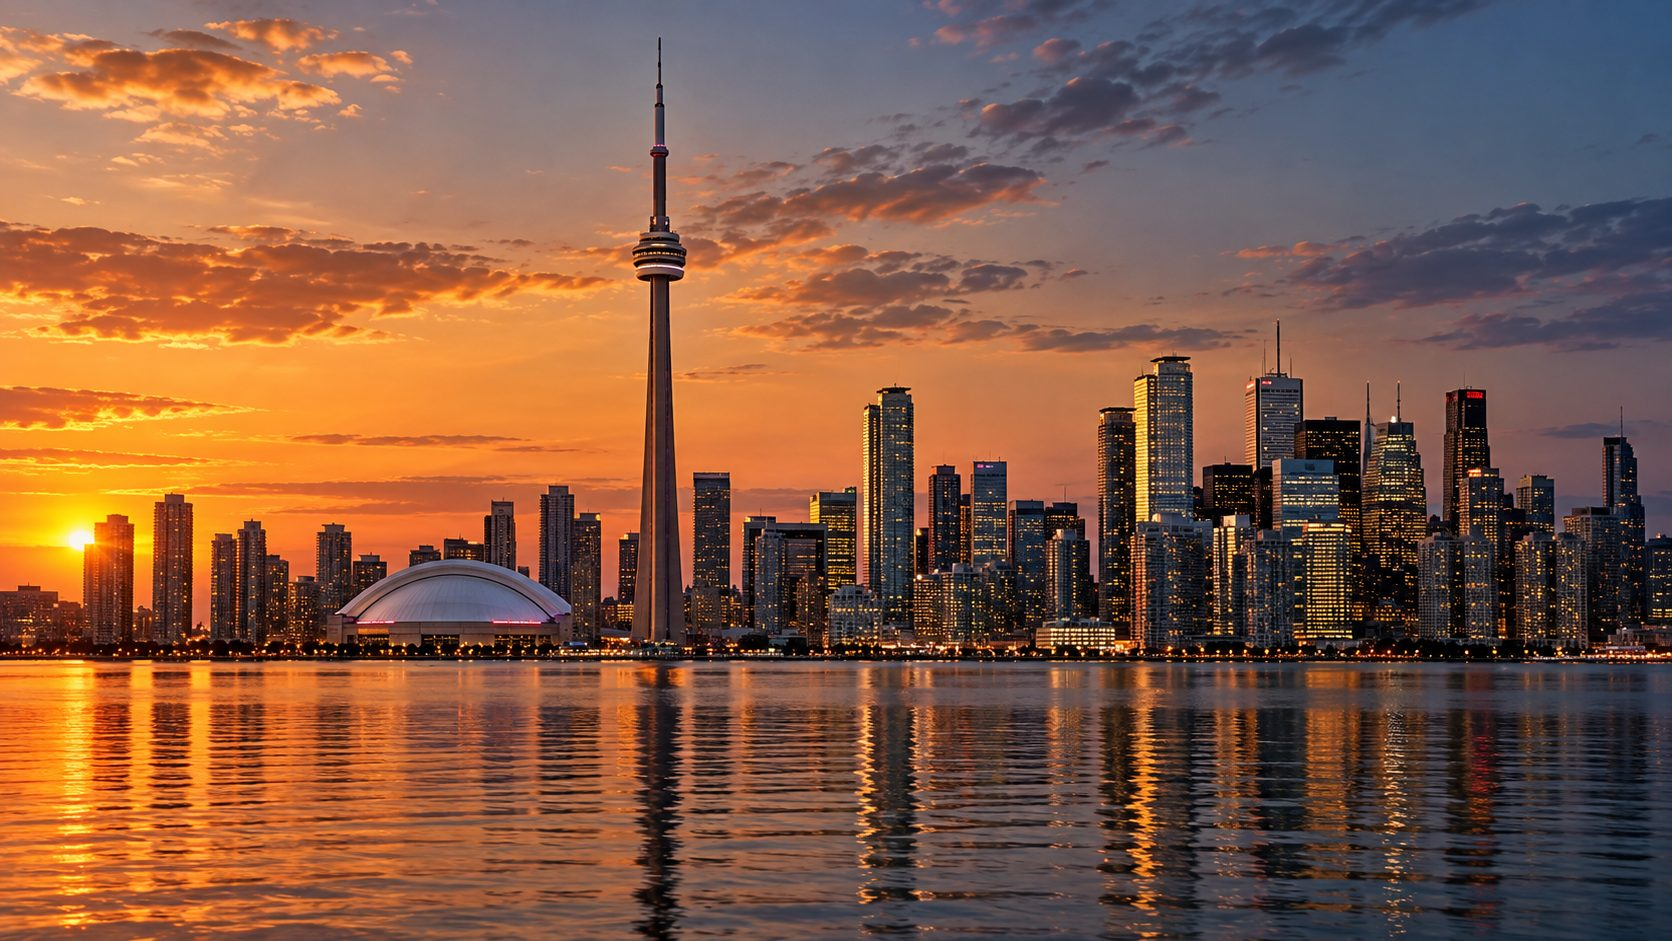
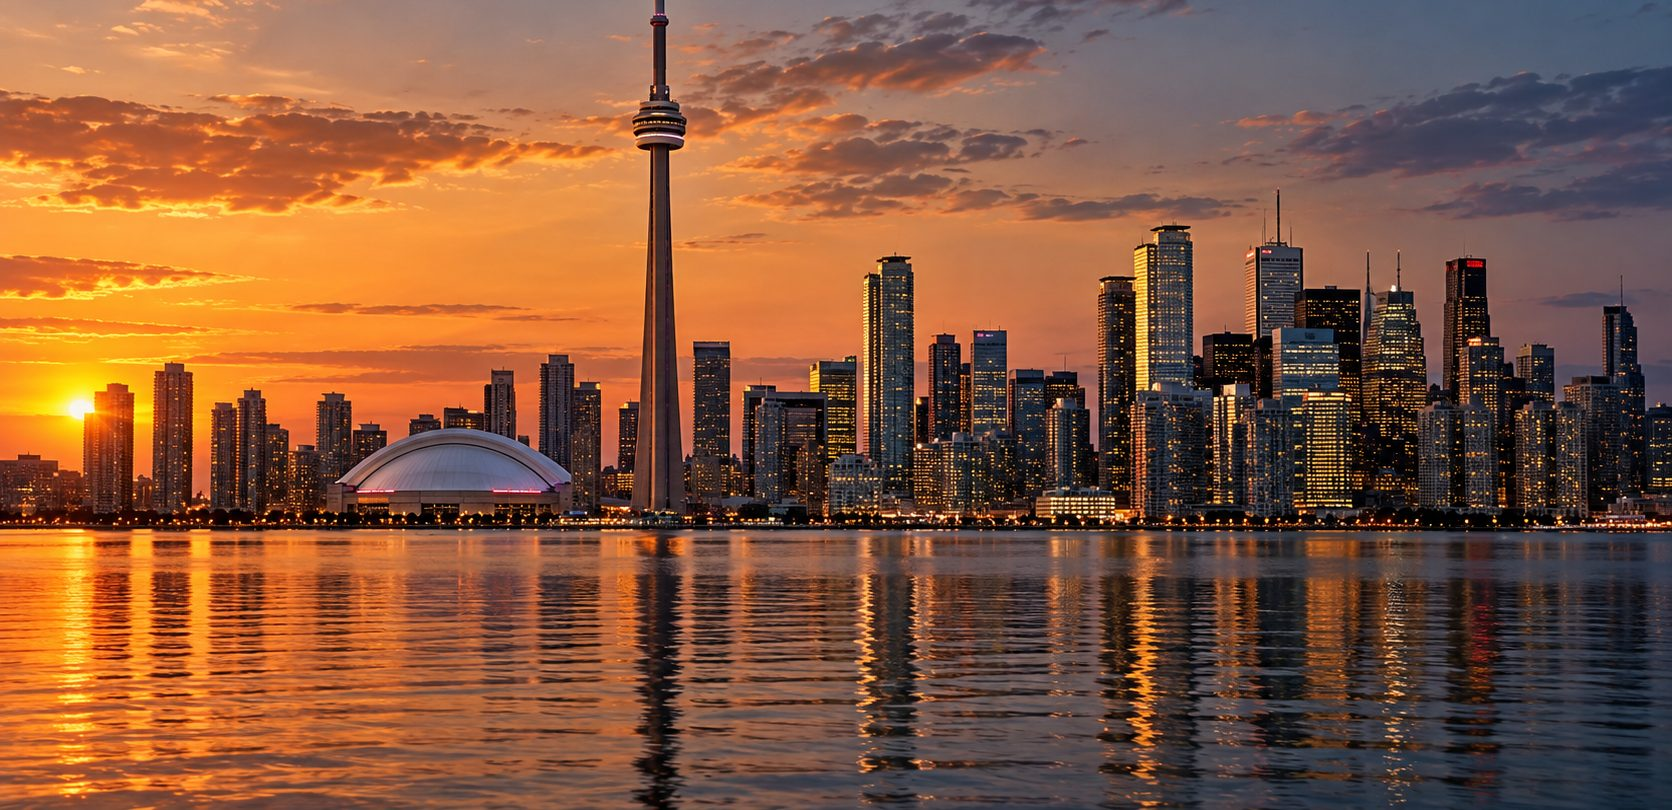
Split Estate Sales (flagship) and Estate Management into two services
- Estate Sales: flagship, featured card on home + services, listed first,
  sale-focused page (consultation, appraisal, staging, the sale, auction)
- Estate Management: new page (sorting, downsizing, donation, coordination)
- Update hero panel (5 services), previews, service grid, others links,
  contact dropdown; recrop Coverage skyline so it frames cleanly

Claude-Session: https://claude.ai/code/session_01TmpKbQ9dQJgBS3atNsjquV

diff --git a/index.html b/index.html
@@ -265,7 +265,7 @@
   .offer p{margin:0;color:var(--steel-2);font-weight:300;font-size:1.02rem;max-width:64ch;}
   .others{background:var(--charcoal);border-top:1px solid var(--line-dark);padding:72px 0;}
   .others .kicker{display:block;text-align:center;margin-bottom:34px;}
-  .others-grid{display:grid;grid-template-columns:repeat(3,1fr);gap:1px;background:var(--line-dark);border:1px solid var(--line-dark);}
+  .others-grid{display:grid;grid-template-columns:repeat(4,1fr);gap:1px;background:var(--line-dark);border:1px solid var(--line-dark);}
   .others-grid a{background:var(--charcoal);padding:32px 28px;text-decoration:none;transition:background .25s;display:block;}
   .others-grid a:hover{background:var(--ink);}
   .others-grid .n{font-family:"Cormorant Garamond",serif;color:var(--steel-2);font-size:.95rem;}
@@ -273,7 +273,7 @@
   .page-cta{background:var(--ink);text-align:center;padding:90px 0;}
   .page-cta h2{font-size:clamp(2rem,4.5vw,3rem);color:#fff;font-weight:400;margin:14px 0 26px;}
   .page-cta .btns{display:flex;gap:16px;justify-content:center;flex-wrap:wrap;}
-  @media(max-width:880px){.offer{grid-template-columns:1fr;gap:10px;}.others-grid{grid-template-columns:1fr;}}
+  @media(max-width:880px){.offer{grid-template-columns:1fr;gap:10px;}.others-grid{grid-template-columns:1fr 1fr;}}
 
   /* ---------- Motion & luxury polish ---------- */
   @keyframes qlf-drift{0%{transform:translate3d(0,0,0) scale(1);}100%{transform:translate3d(-2.5%,1.5%,0) scale(1.07);}}
@@ -334,7 +334,7 @@
   #why .sec-banner{background-image:url("img/approach.jpg");}
   #about .sec-banner{background-image:url("img/about-band.jpg");}
   #contact .sec-banner{background-image:url("img/contact.jpg");}
-  #areas .sec-banner{background-image:url("img/coverage.jpg");background-position:center top;height:clamp(300px,54vh,580px);}
+  #areas .sec-banner{background-image:url("img/coverage.jpg");background-position:center top;height:clamp(260px,44vh,500px);}
 
   /* Full-width parallax texture band (landing) */
   .band{position:relative;padding:0;min-height:clamp(240px,44vh,440px);display:grid;place-items:center;text-align:center;background:#0d0e11 center/cover no-repeat;background-attachment:fixed;border-top:1px solid var(--line-dark);border-bottom:1px solid var(--line-dark);}
@@ -342,6 +342,23 @@
   .band .wrap{position:relative;z-index:1;}
   .band-line{font-family:"Cormorant Garamond",serif;font-style:italic;font-weight:400;font-size:clamp(1.9rem,4vw,3.1rem);color:#fff;margin:0;}
   @media(max-width:880px){.band{background-attachment:scroll;}}
+
+  /* Estate Management banner (detail page) */
+  #estate-management .page-hero{background:linear-gradient(90deg,rgba(13,14,17,.94) 0%,rgba(13,14,17,.68) 55%,rgba(13,14,17,.52) 100%),url("img/band-marble.jpg") center/cover no-repeat;}
+  #estate-management .page-hero::before{display:none;}
+
+  /* Flagship feature card (Estate Sales) */
+  .feature{display:grid;grid-template-columns:1.15fr 1fr;border:1px solid var(--line-dark);text-decoration:none;color:inherit;background:var(--charcoal);overflow:hidden;margin-bottom:34px;transition:background .3s ease;}
+  .feature:hover{background:var(--charcoal-2);}
+  .feature-txt{padding:48px 46px;display:flex;flex-direction:column;justify-content:center;}
+  .feature-tag{align-self:flex-start;font-size:.62rem;letter-spacing:.28em;text-transform:uppercase;color:var(--platinum);border:1px solid var(--steel-2);padding:6px 14px;margin-bottom:20px;}
+  .feature-txt h3{font-family:"Cormorant Garamond",serif;font-size:2.6rem;font-weight:500;color:#fff;margin:0 0 12px;}
+  .feature-txt p{color:var(--steel-2);font-weight:300;font-size:1.02rem;margin:0 0 24px;max-width:46ch;}
+  .feature-txt .more{font-size:.68rem;letter-spacing:.24em;text-transform:uppercase;color:var(--mist);}
+  .feature-txt .more .arw{display:inline-block;margin-left:8px;transition:transform .25s;}
+  .feature:hover .more .arw{transform:translateX(5px);}
+  .feature-img{background:#0d0e11 center/cover no-repeat;min-height:320px;}
+  @media(max-width:880px){.feature{grid-template-columns:1fr;}.feature-img{min-height:200px;order:-1;}.feature-txt{padding:30px 24px;}.feature-txt h3{font-size:2rem;}}
 
   /* Tighter vertical rhythm on mobile (less scrolling) */
   @media(max-width:880px){
@@ -407,8 +424,9 @@
   <div class="others"><div class="wrap">
     <span class="kicker">Also from the studio</span>
     <div class="others-grid">
+        <a href="#estates"><span class="n">Flagship</span><h4>Estate Sales</h4></a>
         <a href="#organization"><span class="n">02 — Order</span><h4>Home Organization</h4></a>
-        <a href="#estates"><span class="n">03 — Transition</span><h4>Estate Sales</h4></a>
+        <a href="#estate-management"><span class="n">03 — Estate</span><h4>Estate Management</h4></a>
         <a href="#bookkeeping"><span class="n">04 — Ledger</span><h4>Bookkeeping</h4></a>
     </div>
   </div></div>
@@ -438,8 +456,9 @@
   <div class="others"><div class="wrap">
     <span class="kicker">Also from the studio</span>
     <div class="others-grid">
+        <a href="#estates"><span class="n">Flagship</span><h4>Estate Sales</h4></a>
         <a href="#maintenance"><span class="n">01 — Maintenance</span><h4>Home Maintenance Services</h4></a>
-        <a href="#estates"><span class="n">03 — Transition</span><h4>Estate Sales</h4></a>
+        <a href="#estate-management"><span class="n">03 — Estate</span><h4>Estate Management</h4></a>
         <a href="#bookkeeping"><span class="n">04 — Ledger</span><h4>Bookkeeping</h4></a>
     </div>
   </div></div>
@@ -456,23 +475,53 @@
 <section class="route" id="estates">
   <div class="page-hero"><div class="inner">
     <a class="backlink" href="#services"><span class="arw">←</span> All Services</a>
-    <span class="kicker">03 — Transition</span>
-    <h1>Estate Sales &amp; Management</h1>
-    <p class="lede">Composed, confidential management of an entire estate — from the first careful sort to the final sale, donation, and clean-out. Whether you're settling a loved one's home or downsizing your own, every detail is handled with discretion, transparency, and the steadiness of a single point of contact — turning a daunting process into a managed one.</p>
+    <span class="kicker">Flagship Service</span>
+    <h1>Estate Sales</h1>
+    <p class="lede">The full, discreet management of an estate sale — from the first valuation to the final dollar. When a lifetime's belongings must become value, Que La Femme runs it end to end: appraised properly, presented beautifully, sold for what it's truly worth, and accounted for to the cent.</p>
   </div></div>
   <div class="detail"><div class="wrap">
       <div class="offer"><div class="idx">01</div><div><h3>Private Consultation &amp; Plan</h3><p>A discreet walkthrough of the home, an honest sense of what the estate holds, and a clear written plan and timeline — with no obligation to proceed.</p></div></div>
-      <div class="offer"><div class="idx">02</div><div><h3>Sorting, Cataloguing &amp; Keepsakes</h3><p>A respectful sort of a lifetime's belongings. Items promised to family or held dear are set aside first; everything else is catalogued before a single thing is sold.</p></div></div>
-      <div class="offer"><div class="idx">03</div><div><h3>Appraisal &amp; Valuation</h3><p>Fair-market valuation of furnishings, art, jewellery, and collectibles — with specialist appraisers brought in for exceptional pieces, so nothing of value is given away.</p></div></div>
-      <div class="offer"><div class="idx">04</div><div><h3>Staging &amp; Presentation</h3><p>The home arranged so the collection shows at its best and commands its true worth, whether buyers arrive in person or online.</p></div></div>
-      <div class="offer"><div class="idx">05</div><div><h3>The Estate Sale</h3><p>The sale itself, run end to end — pricing, promotion, buyer management, secure payment, and a full itemized account of every dollar.</p></div></div>
-      <div class="offer"><div class="idx">06</div><div><h3>Auction &amp; Consignment Liaison</h3><p>Standout pieces placed with the right auction house or consignor — quietly, and at the right moment — for the strongest possible return.</p></div></div>
-      <div class="offer"><div class="idx">07</div><div><h3>Downsizing &amp; Relocation</h3><p>For a move to a smaller home or a care residence: deciding what to keep, letting the rest go with grace, and settling you into the new space.</p></div></div>
-      <div class="offer"><div class="idx">08</div><div><h3>Donation, Clear-Out &amp; Handover</h3><p>Remaining items donated to charity with receipts arranged, then the home cleared and broom-swept — ready to list or hand over.</p></div></div>
+      <div class="offer"><div class="idx">02</div><div><h3>Appraisal &amp; Valuation</h3><p>Fair-market valuation of furnishings, art, jewellery, and collectibles — with specialist appraisers brought in for exceptional pieces, so nothing of value is given away.</p></div></div>
+      <div class="offer"><div class="idx">03</div><div><h3>Staging &amp; Presentation</h3><p>The home and its collection arranged to show at their best and command their true worth, whether buyers arrive in person or online.</p></div></div>
+      <div class="offer"><div class="idx">04</div><div><h3>The Estate Sale</h3><p>The sale itself, run end to end — pricing, promotion, buyer management, secure payment, and a full itemized account of every dollar.</p></div></div>
+      <div class="offer"><div class="idx">05</div><div><h3>Auction &amp; Consignment Liaison</h3><p>Standout pieces placed with the right auction house or consignor — quietly, and at the right moment — for the strongest possible return.</p></div></div>
   </div></div>
   <div class="others"><div class="wrap">
     <span class="kicker">Also from the studio</span>
     <div class="others-grid">
+        <a href="#maintenance"><span class="n">01 — Maintenance</span><h4>Home Maintenance Services</h4></a>
+        <a href="#organization"><span class="n">02 — Order</span><h4>Home Organization</h4></a>
+        <a href="#estate-management"><span class="n">03 — Estate</span><h4>Estate Management</h4></a>
+        <a href="#bookkeeping"><span class="n">04 — Ledger</span><h4>Bookkeeping</h4></a>
+    </div>
+  </div></div>
+  <div class="page-cta"><div class="wrap">
+    <span class="kicker">Enquiries</span>
+    <h2>Let&#39;s discuss your home</h2>
+    <div class="btns">
+      <a href="#contact" class="btn light">Request Consultation</a>
+      <a href="#services" class="btn outline-light">All Services</a>
+    </div>
+  </div></div>
+</section>
+
+<section class="route" id="estate-management">
+  <div class="page-hero"><div class="inner">
+    <a class="backlink" href="#services"><span class="arw">←</span> All Services</a>
+    <span class="kicker">03 — Estate</span>
+    <h1>Estate Management</h1>
+    <p class="lede">The calm handling of everything around an estate — the sorting, the downsizing, the giving, and the clearing. Whether you're settling a loved one's home or planning your own move, it's organized with discretion and care, one considered step at a time.</p>
+  </div></div>
+  <div class="detail"><div class="wrap">
+      <div class="offer"><div class="idx">01</div><div><h3>Sorting, Cataloguing &amp; Keepsakes</h3><p>A respectful sort of a lifetime's belongings. Items promised to family or held dear are set aside first; everything else is catalogued and organized.</p></div></div>
+      <div class="offer"><div class="idx">02</div><div><h3>Downsizing &amp; Relocation</h3><p>For a move to a smaller home or a care residence: deciding what to keep, letting the rest go with grace, and settling you into the new space.</p></div></div>
+      <div class="offer"><div class="idx">03</div><div><h3>Donation &amp; Clear-Out</h3><p>Remaining items donated to charity with receipts arranged, then the home cleared and broom-swept — ready to list or hand over.</p></div></div>
+      <div class="offer"><div class="idx">04</div><div><h3>Coordination &amp; Oversight</h3><p>A single, steady point of contact for executors and family — timelines kept, tradespeople coordinated, and the whole process quietly managed.</p></div></div>
+  </div></div>
+  <div class="others"><div class="wrap">
+    <span class="kicker">Also from the studio</span>
+    <div class="others-grid">
+        <a href="#estates"><span class="n">Flagship</span><h4>Estate Sales</h4></a>
         <a href="#maintenance"><span class="n">01 — Maintenance</span><h4>Home Maintenance Services</h4></a>
         <a href="#organization"><span class="n">02 — Order</span><h4>Home Organization</h4></a>
         <a href="#bookkeeping"><span class="n">04 — Ledger</span><h4>Bookkeeping</h4></a>
@@ -505,9 +554,10 @@
   <div class="others"><div class="wrap">
     <span class="kicker">Also from the studio</span>
     <div class="others-grid">
+        <a href="#estates"><span class="n">Flagship</span><h4>Estate Sales</h4></a>
         <a href="#maintenance"><span class="n">01 — Maintenance</span><h4>Home Maintenance Services</h4></a>
         <a href="#organization"><span class="n">02 — Order</span><h4>Home Organization</h4></a>
-        <a href="#estates"><span class="n">03 — Transition</span><h4>Estate Sales</h4></a>
+        <a href="#estate-management"><span class="n">03 — Estate</span><h4>Estate Management</h4></a>
     </div>
   </div></div>
   <div class="page-cta"><div class="wrap">
@@ -535,18 +585,19 @@
         <a href="#services" class="btn outline-light">View Services</a>
       </div>
       <div class="hero-meta">
-        <div><b>04</b><span>Disciplines</span></div>
+        <div><b>05</b><span>Services</span></div>
         <div><b>GTA</b><span>Coverage</span></div>
         <div><b>Private</b><span>&amp; Insured</span></div>
       </div>
     </div>
     <aside class="hero-panel">
       <h3>The Studio</h3>
-      <p>Four disciplines. One point of contact.</p>
+      <p>Five services. One point of contact.</p>
       <ul>
+        <li><a href="#estates">Estate Sales <span class="n">✦</span></a></li>
         <li><a href="#maintenance">Home Maintenance <span class="n">01</span></a></li>
         <li><a href="#organization">Organization <span class="n">02</span></a></li>
-        <li><a href="#estates">Estate Sales <span class="n">03</span></a></li>
+        <li><a href="#estate-management">Estate Management <span class="n">03</span></a></li>
         <li><a href="#bookkeeping">Bookkeeping <span class="n">04</span></a></li>
       </ul>
       <a href="#contact" class="btn light" style="width:100%;text-align:center;">Begin</a>
@@ -558,12 +609,21 @@
   <div class="wrap">
     <div class="section-head">
       <span class="kicker">Services</span>
-      <h2>Four disciplines, one standard</h2>
+      <h2>Our services, one standard</h2>
     </div>
+    <a class="feature" href="#estates">
+      <div class="feature-txt">
+        <span class="feature-tag">Flagship Service</span>
+        <h3>Estate Sales</h3>
+        <p>Our signature offering — the full, discreet management of an estate sale: appraised, staged, sold for its true worth, and accounted for to the cent.</p>
+        <span class="more">Explore Estate Sales<span class="arw">→</span></span>
+      </div>
+      <div class="feature-img" style="background-image:url('img/estates.jpg')"></div>
+    </a>
     <div class="preview-grid">
       <a class="preview" href="#maintenance"><span class="pnum">01</span><h3>Home Maintenance</h3><p>Cleaning, repairs, gardens, painting, small-space design &amp; moves.</p><span class="more">View<span class="arw">→</span></span></a>
       <a class="preview" href="#organization"><span class="pnum">02</span><h3>Home Organization</h3><p>Decluttering, closets &amp; kitchens, paper &amp; storage, lasting systems.</p><span class="more">View<span class="arw">→</span></span></a>
-      <a class="preview" href="#estates"><span class="pnum">03</span><h3>Estate Sales</h3><p>Valuation, staging, the sale, auction liaison &amp; clear-out.</p><span class="more">View<span class="arw">→</span></span></a>
+      <a class="preview" href="#estate-management"><span class="pnum">03</span><h3>Estate Management</h3><p>Sorting, downsizing, donation, clear-out &amp; estate coordination.</p><span class="more">View<span class="arw">→</span></span></a>
       <a class="preview" href="#bookkeeping"><span class="pnum">04</span><h3>Bookkeeping</h3><p>Monthly books, invoicing, reconciliations &amp; tax-season prep.</p><span class="more">View<span class="arw">→</span></span></a>
     </div>
     <div style="text-align:center;margin-top:44px;">
@@ -630,9 +690,18 @@
   <div class="wrap">
     <div class="section-head">
       <span class="kicker">Services</span>
-      <h2>Four disciplines, one standard</h2>
-      <p>From a weekly maintenance schedule to the full management of an estate, the work is precise, discreet, and handled directly.</p>
+      <h2>Our services, one standard</h2>
+      <p>From a weekly maintenance schedule to the full management of an estate sale, the work is precise, discreet, and handled directly.</p>
     </div>
+    <a class="feature" href="#estates">
+      <div class="feature-txt">
+        <span class="feature-tag">Flagship Service</span>
+        <h3>Estate Sales</h3>
+        <p>Our signature offering — the full, discreet management of an estate sale: appraised, staged, sold for its true worth, and accounted for to the cent.</p>
+        <span class="more">Explore Estate Sales<span class="arw">→</span></span>
+      </div>
+      <div class="feature-img" style="background-image:url('img/estates.jpg')"></div>
+    </a>
     <div class="service-grid">
 
       <a class="service" href="#maintenance">
@@ -661,15 +730,15 @@
         <span class="more">View details<span class="arw">→</span></span>
       </a>
 
-      <a class="service" href="#estates">
-        <div class="num">03 — Transition</div>
-        <h3>Estate Sales</h3>
-        <p>Composed, confidential handling of the estate and downsizing — organized from the first sort to the final sale.</p>
+      <a class="service" href="#estate-management">
+        <div class="num">03 — Estate</div>
+        <h3>Estate Management</h3>
+        <p>The calm handling of everything around an estate — sorting, downsizing, giving, and clearing, one considered step at a time.</p>
         <ul>
-          <li>Appraisal &amp; valuation</li>
-          <li>Full estate-sale management</li>
-          <li>Auction &amp; consignment liaison</li>
-          <li>Downsizing &amp; clear-outs</li>
+          <li>Sorting, cataloguing &amp; keepsakes</li>
+          <li>Downsizing &amp; relocation</li>
+          <li>Donation &amp; clear-out</li>
+          <li>Coordination &amp; oversight</li>
         </ul>
         <span class="more">View details<span class="arw">→</span></span>
       </a>
@@ -792,9 +861,10 @@
       <div class="field">
         <label for="service">Discipline</label>
         <select id="service" name="service">
+          <option>Estate Sales</option>
+          <option>Estate Management</option>
           <option>Home Maintenance Services</option>
           <option>Home Organization</option>
-          <option>Estate Sales</option>
           <option>Bookkeeping</option>
           <option>Undecided</option>
         </select>
